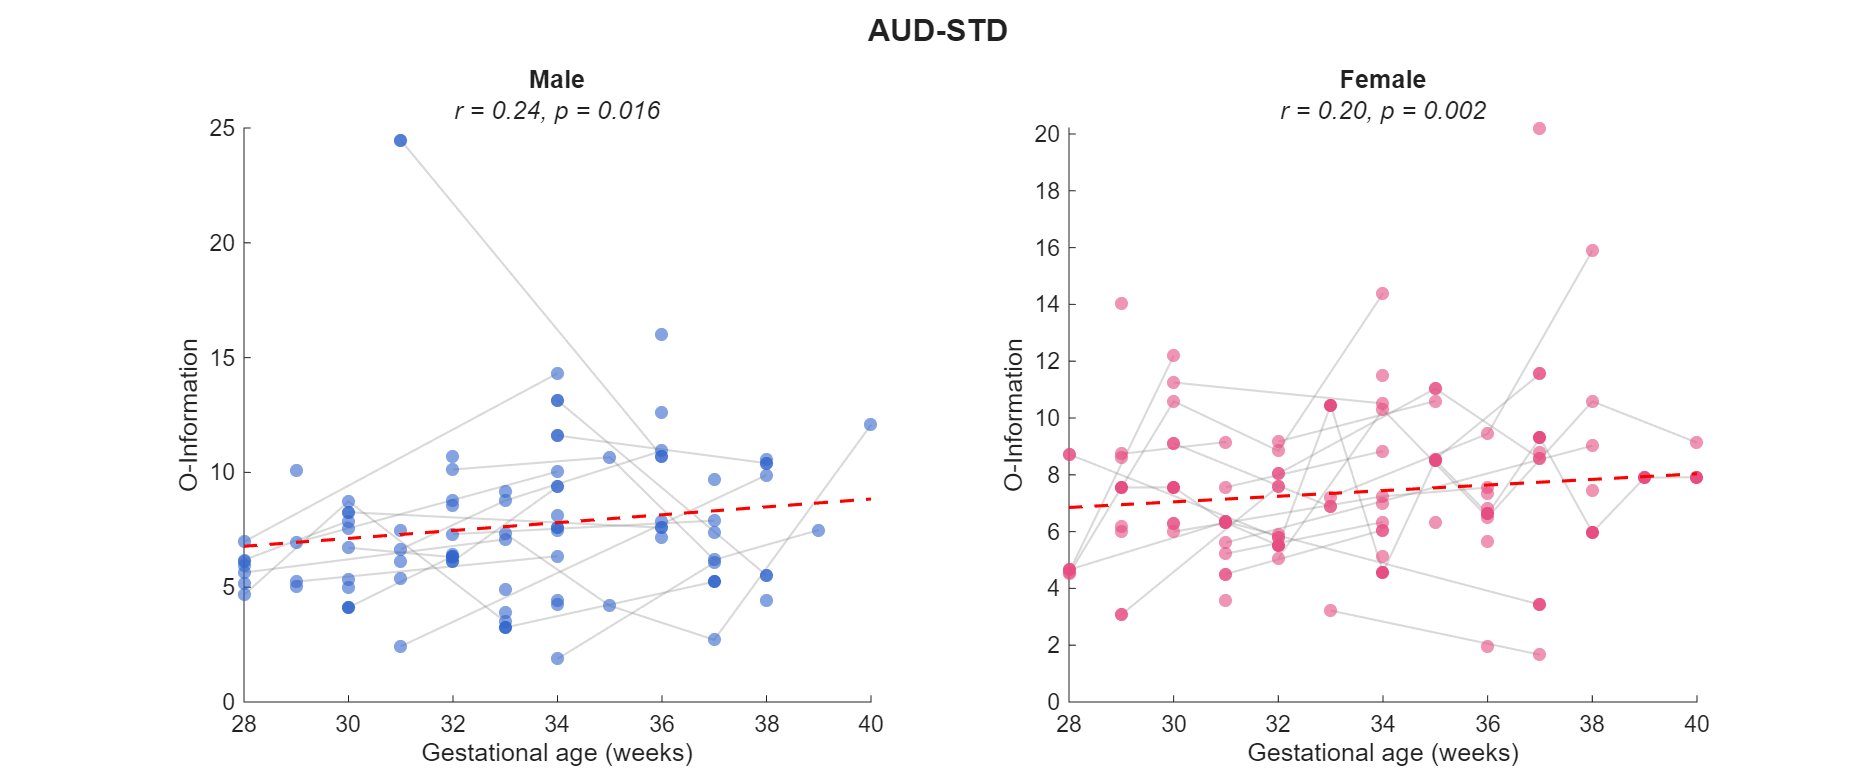
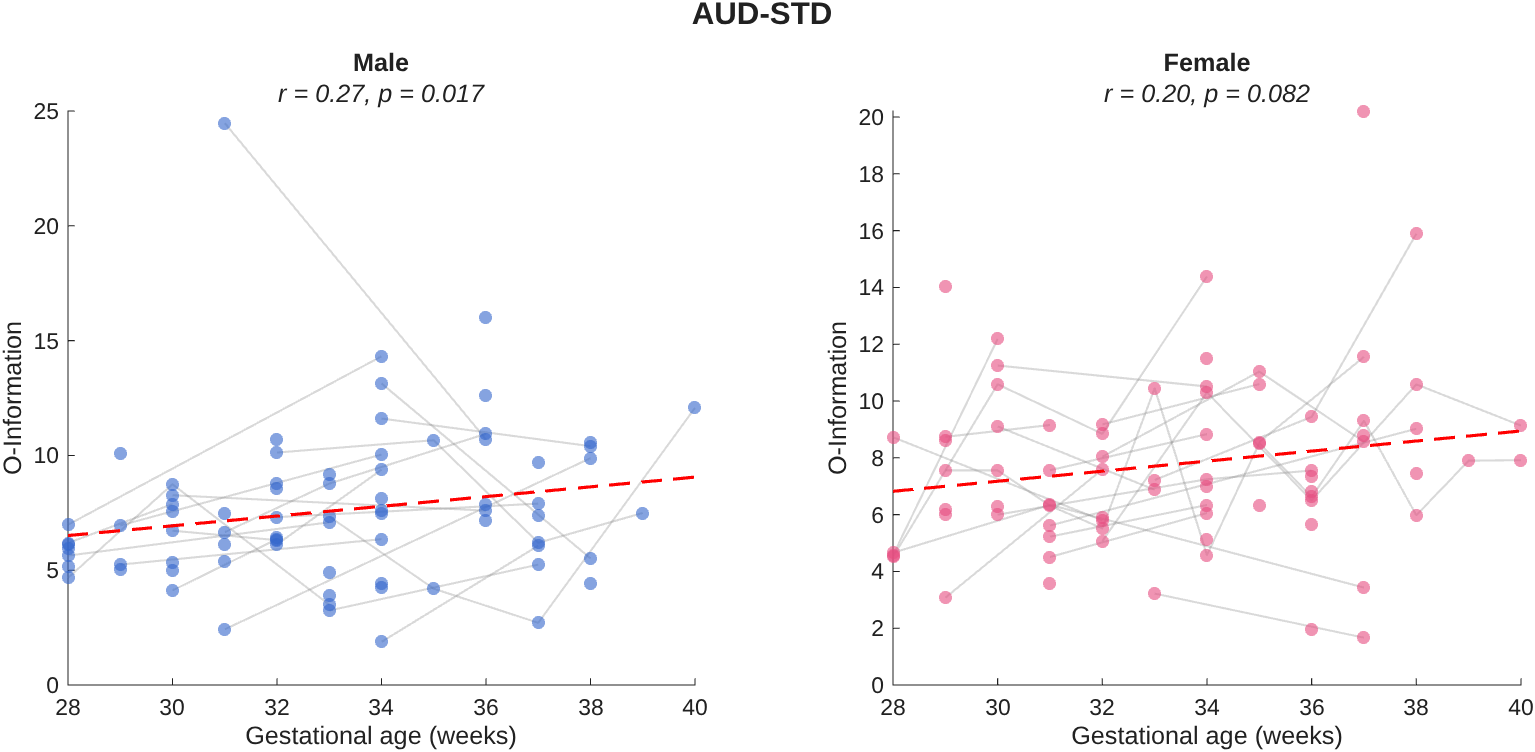
Update figures

diff --git a/plot_Omega_Group_WithinSubject.m b/plot_Omega_Group_WithinSubject.m
@@ -1,11 +1,8 @@
 results = readtable('spreadsheet/AvgOmega_full.csv');
 groups = {'Control', 'IUGR', 'SGA'};
+stimType = 'Pooled';
 
-% Define custom colors (RGB values between 0 and 1)
-%colorMale = [0.2, 0.4, 0.8];  
-%colorFemale = [0.9, 0.3, 0.5]; 
-
-% Master conversion of SSW to numeric
+% Conversion of SSW to numeric
 if iscell(results.SSW) || isstring(results.SSW)
     allX = str2double(results.SSW);
 else
@@ -27,13 +24,6 @@ for i = 1:3
     idData = allIDs(isData);
     
     if isempty(xData) || all(isnan(xData)), continue; end
-
-    % Select the color based on the loop index
-    % if i == 1
-    %     currentCol = colorMale;
-    % else
-    %     currentCol = colorFemale;
-    % end
     
     % Plot Within-Subject Lines
     uniqueIDs = unique(idData);
@@ -52,9 +42,9 @@ for i = 1:3
         end
     end
    
-    % Scatter plot (Overlayed on top of lines)
-    %scatter(xData, yData, 40, 'filled', 'MarkerFaceColor', currentCol, 'MarkerFaceAlpha', 0.6);
+    % Scatter plot
     scatter(xData, yData, 40, 'filled', 'MarkerFaceAlpha', 0.6);
+    
     % Trend Line
     [p, S] = polyfit(xData, yData, 1);
     x_range = linspace(min(xData), max(xData), 100);
@@ -76,3 +66,5 @@ for i = 1:3
     
     set(gca, 'FontSize', 11);
 end
+
+sgtitle(groupType, 'FontWeight', 'bold');

diff --git a/o-information/plot_Oinfo_Age.m b/o-information/plot_Oinfo_Age.m
@@ -4,8 +4,8 @@ close all
 %filePath = fullfile('..', 'spreadsheet', 'AvgOmega_PCA_Space_LIGHT.csv');
 %results = readtable(filePath);
 
-load('AvgOmega_PCA_Space_LIGHT.mat')
-stimType = 'LIGHT';
+load('AvgOmega_SSW_IUGR_SPONT_notrials.mat')
+stimType = 'AUD-DEV';
 
 if iscell(results.SSW) || isstring(results.SSW)
     xData = str2double(results.SSW);
@@ -28,19 +28,14 @@ if height(results) > 1
     [y_fit, delta] = polyval(p, x_range, S);
     
     plot(x_range, y_fit, 'r-');
-    
-    % Add a shaded 95% Confidence Interval
-    %fill([x_range, fliplr(x_range)], [y_fit+2*delta, fliplr(y_fit-2*delta)], ...
-    %    'r', 'FaceAlpha', 0.1, 'EdgeColor', 'none', 'HandleVisibility', 'off');
-    
+   
     % Calculate Correlation for the title
-    [r, pval] = corr(xData, yData);
-    %title_str = sprintf('Development of fetal brain information dynamics\n(r = %.2f, p = %.3f)', r, pval);
+    [r, pval] = corr(xData, yData, 'Type', 'Spearman');
 
     if pval < 0.001
         subtitle(sprintf('r = %.2f, p < 0.001', r), 'FontAngle', 'italic');
     else
-        subtitle(sprintf('r = %.2f, p = %.3f', r, pval), 'FontAngle', 'italic');
+        subtitle(sprintf('rho = %.2f, p = %.3f', r, pval), 'FontAngle', 'italic');
     end
 end
 

diff --git a/o-information/plot_Oinfo_Barley.m b/o-information/plot_Oinfo_Barley.m
@@ -11,7 +11,7 @@ results = rmmissing(results);
 %else
 %    xData = results.MDI;
 %end
-xData = results.MDI;
+xData = results.PDI;
 yData = results.Omega;
 
 isData = strcmp(results.Group, condition); %& results.Sex == 1;
@@ -50,7 +50,7 @@ ylabel('O-information');
 
 % Clean up axes
 set(gca, 'FontSize', 12, 'TickDir', 'out');
-%title(stimType, 'FontWeight', 'bold');
+title(condition, 'FontWeight', 'bold');
 
 
 %results.Group = categorical(results.Group);
